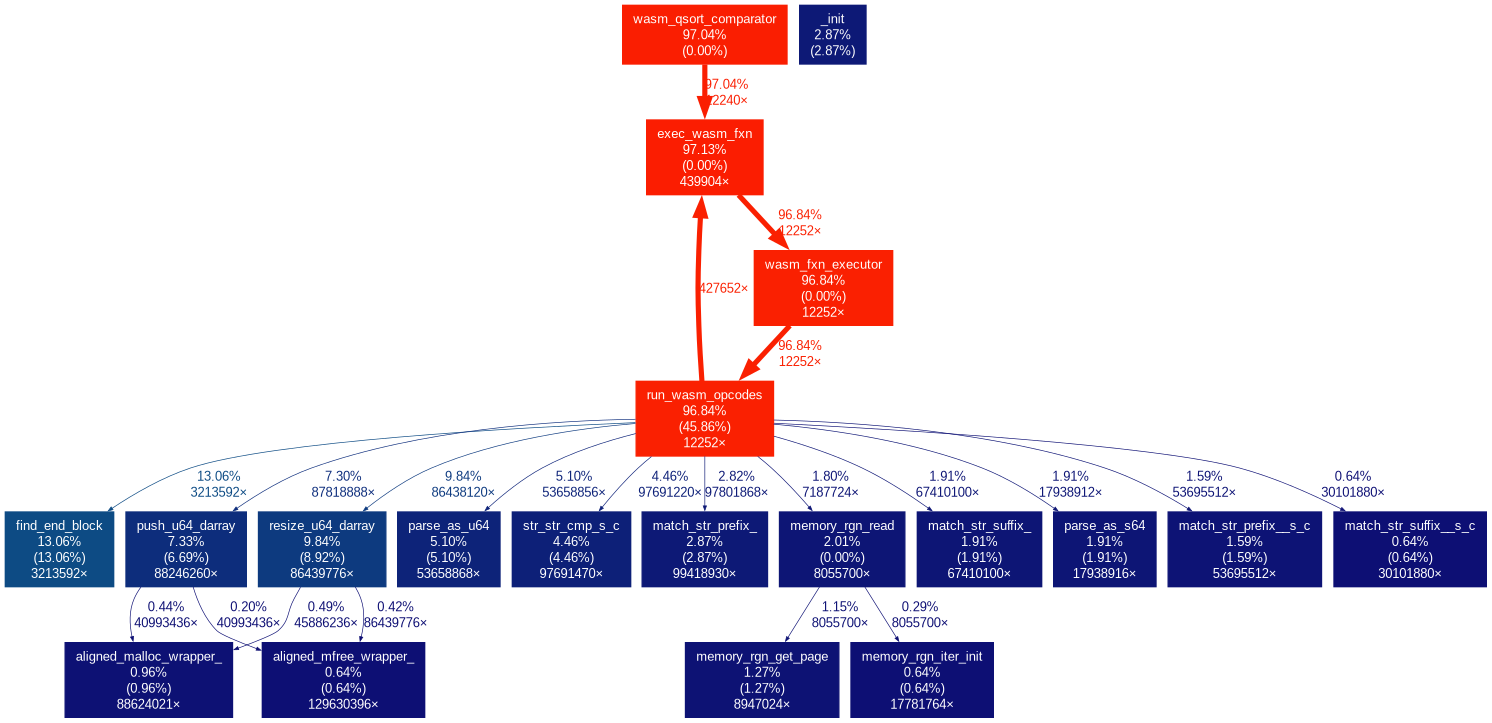
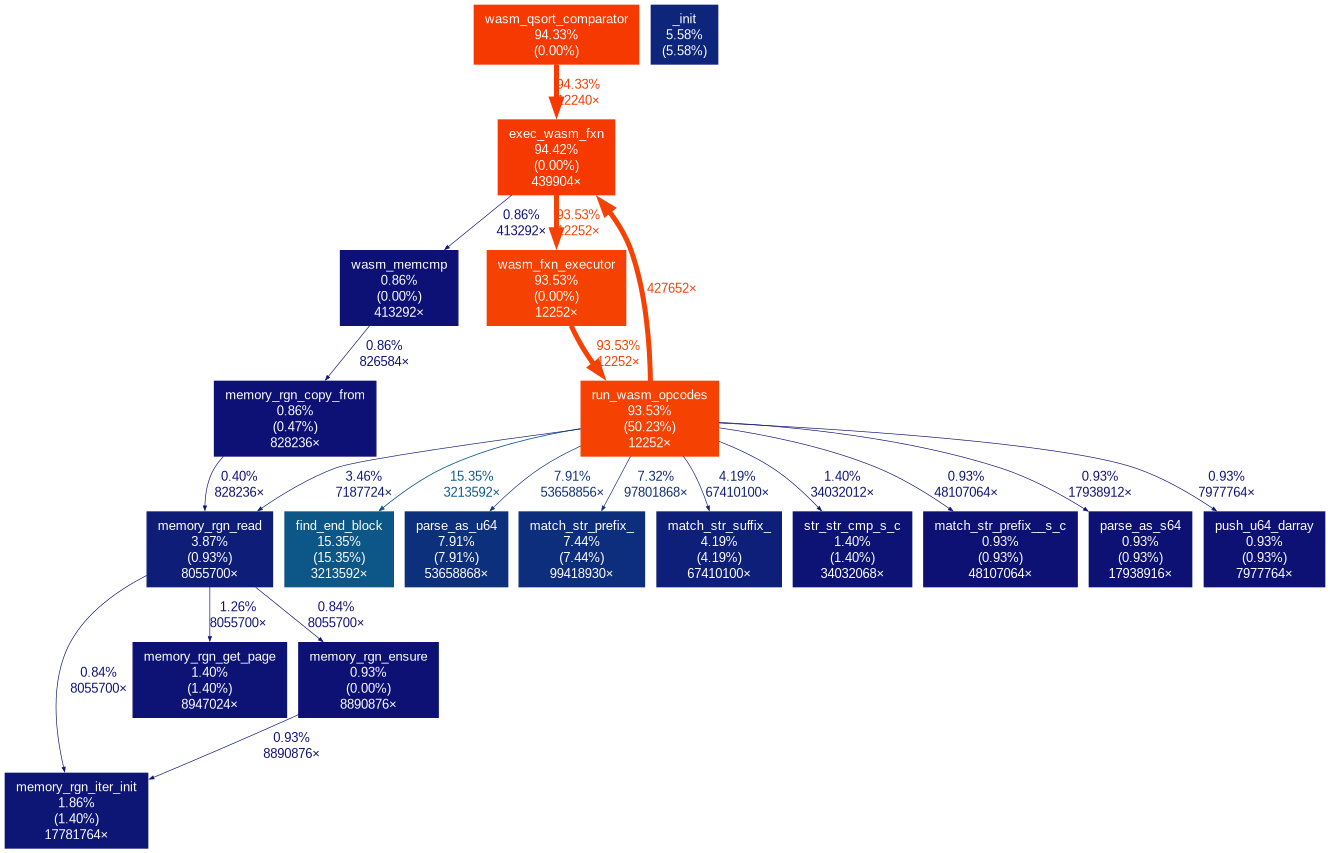
optimize by rewriting u64 darray impl
Sidenote: There is something indeed wrong with my generic darray
implementation

Will have to change it in the c-utils library

diff --git a/stk_n_mems.h b/stk_n_mems.h
@@ -75,19 +75,24 @@ UTILAPI bool resize_u64_darray(u64_Darray* arr, size_t new_count){
   //return res;
 }
 UTILAPI bool push_u64_darray(u64_Darray* arr, u64 val){
+
   size_t new_capacity = arr->capacity;
   if((arr->count+1) > arr->capacity){
     new_capacity *= 2; // Since only 1 item is pushed at a time, this is okay
-    new_capacity = _max(new_capacity, 128);
+    new_capacity = _max(new_capacity, 256);
   }
 
-  void* newptr = alloc_mem(arr->allocr, new_capacity, alignof(u64));
-  if(!newptr) return false;
-  memcpy(newptr, arr->data, sizeof(arr->data[0]) * arr->count);
-  free_mem(arr->allocr, arr->data);
-  arr->data = (u64*)newptr;
+  if(new_capacity != arr->capacity){
+    void* newptr = alloc_mem(arr->allocr, new_capacity, alignof(u64));
+    if(!newptr) return false;
+    if(arr->data){
+      memcpy(newptr, arr->data, sizeof(arr->data[0]) * arr->count);
+      free_mem(arr->allocr, arr->data);
+    }
+    arr->data = (u64*)newptr;
+    arr->capacity = new_capacity;
+  }
   arr->count++;
-  arr->capacity = new_capacity;
   //bool res = resize_u64_darray(arr, arr->count + 1);
   //if(res){
   arr->data[arr->count -1] = val;
@@ -97,9 +102,13 @@ UTILAPI bool push_u64_darray(u64_Darray* arr, u64 val){
 UTILAPI bool pop_u64_darray(u64_Darray* arr, size_t count){
   if(count > arr->count) return false;
   size_t new_capacity = arr->capacity;
-  while((new_capacity/2) > 128 &&
-	(new_capacity / 4) > (arr->count - count)) new_capacity /= 2;
   arr->count = arr->count - count;
+  return true; 
+  if(new_capacity > 256 ||
+     (new_capacity * 4 > arr->count && new_capacity * 8 <= arr->count)) return true;
+  while((new_capacity/2) > 256 &&
+	(new_capacity / 8) > arr->count) new_capacity /= 4;
+
   void* newptr = alloc_mem(arr->allocr, new_capacity, alignof(u64));
   if(!newptr) return true;
   arr->capacity = new_capacity;

diff --git a/opcodes.h b/opcodes.h
@@ -253,7 +253,7 @@ u64 run_wasm_opcodes(Alloc_Interface allocr, Exec_Context* cxt, const Opcode_Sli
 #define popstk(v)							\
   do{									\
     if(stk->count == 0){							\
-      fprintf(stderr, "Couldnt pop argument, stack underflow\n");	\
+      fprintf(stderr, "Couldnt pop argument, stack underflow : %s:%d\n",__func__, __LINE__); \
       return 0;								\
     }									\
     (v) = slice_last(*stk);						\
